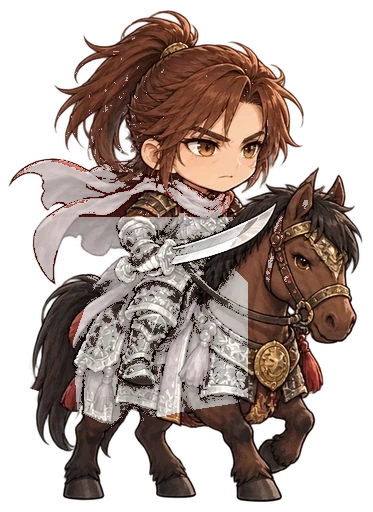
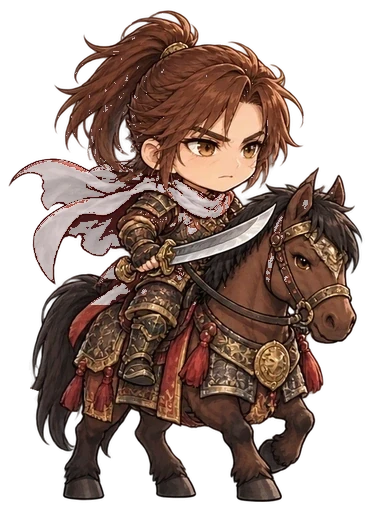
호연 진영색: 말과 겹치던 몸통 칠 대신 망토만 하양
Claude-Session: https://claude.ai/code/session_01KjVLBhHczWP1t97jwnqkEa

Changed region(s): [[0.1769, 0.4062, 0.6783, 0.8438]]

diff --git a/tools/faction-outfit.py b/tools/faction-outfit.py
@@ -129,6 +129,10 @@ RIDER_POLY = {
 SCARF_X = {'sayul': {'fr': (0, 162), 'fl': (92, 256), 'br': (0, 142), 'bl': (78, 220), 'vn': (0, 300)}}
 
 
+# 호연은 갑옷·말이 같은 갈색이라 몸통 윤곽을 칠하면 말까지 얼룩진다. 사람에게만 있는 빨강 망토만 하양으로.
+CAPE_ONLY = {'hoyeon'}
+
+
 def _white(rgb, h, s, v, al, cloth, wgt):
   S, V = s.copy(), v.copy()
   S[cloth] = s[cloth] * .1; V[cloth] = np.clip(.42 + v[cloth] * .7, 0, 1)
@@ -149,7 +153,8 @@ def recolor_bai(im, name='', key='fr'):
   yy = np.arange(al.shape[0])[:, None] * np.ones((1, al.shape[1]))
   dark = (v < .3) & (s < .5)
   if name in RIDER_POLY:
-    m = Image.new('L', im.size, 0); ImageDraw.Draw(m).polygon(RIDER_POLY[name].get(key, RIDER_POLY[name]['fr']), fill=255)
+    m = Image.new('L', im.size, 0)
+    if name not in CAPE_ONLY: ImageDraw.Draw(m).polygon(RIDER_POLY[name].get(key, RIDER_POLY[name]['fr']), fill=255)
     zone = np.asarray(m) > 0
     red = ((hd < 10) | (hd > 340)) & (s >= .5) & (v >= .3); scarf = (hd >= 22) & (hd <= 36) & (s >= .64) & (v >= .5)
     xx = np.arange(al.shape[1])[None, :] * np.ones((al.shape[0], 1))

diff --git a/CLAUDE.md b/CLAUDE.md
@@ -621,3 +621,4 @@
 - `chapterCard(c,then)`(#chapcard, z 95): startChapter→chapterCard→`startChapter0`(옛 본문). 초상·「○○의 이야기」·「제n장」·제목(clip 펼침)·붓선·막·지역, 2.7초 자동(동작 줄이기 1.3초)·누르기/Enter/Esc로 넘김. `CHAPTER_CARD=false`면 바로 대화(dialogue-stage 검사). `tests/timeline-card.cjs`, chronicle 검사 키 v2.
 - 2026-11-12 후속(「엑셀 문서 같다, 처음부터 모든 장을 드러내지 말고, 창세기전 2 챕터 진행 참고」): openTimeline을 전체 화면 `#chronscreen`(z 90, 흐린 천하도 바탕)의 두루마리로 다시 만듦. `.cs-strip` 안 `.cs-track`에 CHRONICLE 순서로 x=110+i·S(S=폭/5, 64~104), 위 청룡·아래 현무 y의 `.cs-node`(.done/.now/.was/.clash, `.cs-dot`·`.cs-lab`), 지나온 장과 지금 장만 그린다. SVG `.cs-old`(지나온 길)·`.cs-new`(끝낸 장→지금 장 붓줄)·`.cs-fog`(앞의 안개 점선). 연출: .45초 낙관 → .95초 붓줄+두루마리 이동(translateX, 지금 장이 62%) → 1.7초 지금 장 등장+아래 `.cs-card`(초상·「○○ · 이야기 · 막」·제n장·제목 펼침·brief·#chron-go). clash는 카드에 두 편 `.chron-side`. closeModal이 #chronscreen을 숨기고 비우며, openTimeline은 #rmodal을 닫고 비운다(숨은 결과 창 단추가 다시 눌리던 문제). timeline-card(드러난 장 수 1·2·5)·chronicle 검사 갱신.
 - 2026-11-12 후속2(「챕터를 세로로, 궤적은 생략」): 두루마리를 세로로. `.cs-track`이 CHRONICLE 순서 i마다 y=top+18+i·S(S=(높이−44)/5.5, 40~64), x는 청명 10%·서진 55% 칸. SVG 붓줄(cs-old·cs-new·cs-fog) 제거, 이동은 translateY(지금 장이 60% 높이). 칸 머리 `.cs-lanes`는 위쪽 고정, 폭 최대 640 가운데. 가로 화면은 왼쪽 두루마리·오른쪽 카드. 카드 등장은 scale(.96)(translateY는 선택 창에서 4px 넘침). 연출 순서(낙관 .45→내려감 .95→지금 장 1.65초)는 그대로. timeline-card는 붓줄 0개·세로 순서를 검사.
+- 2026-11-12 후속3(「호연 색이 말과 겹친다」): 호연은 갑옷·말이 같은 갈색이라 RIDER_POLY 몸통을 칠하면 말 목·안장까지 흰 얼룩이 생겼다. `CAPE_ONLY={'hoyeon'}`는 윤곽 없이 위 60%의 빨강 망토만 하양으로, 나머지(갑옷·말)는 원래 색. 사율은 그대로.
